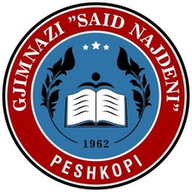
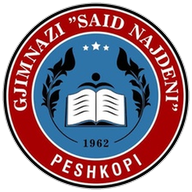
Add files via upload

diff --git a/index.html b/index.html
@@ -19,8 +19,8 @@
 <meta name="mobile-web-app-capable" content="yes">
 <meta name="apple-mobile-web-app-capable" content="yes">
 <meta name="apple-mobile-web-app-title" content="Orari">
-<link rel="icon" type="image/jpeg" href="stema.jpg">
-<link rel="apple-touch-icon" href="icon-192.png">
+<link rel="icon" type="image/png" href="icon-192.png">
+<link rel="apple-touch-icon" href="apple-touch-icon.png">
 <link href="https://fonts.googleapis.com/css2?family=Outfit:wght@400;500;600;700;800&family=JetBrains+Mono:wght@400;500&display=swap" rel="stylesheet">
 <style>
 *,*::before,*::after{box-sizing:border-box;margin:0;padding:0}
@@ -106,7 +106,7 @@ footer{text-align:center;margin-top:40px;color:var(--text-faint);font-size:10px;
 <body>
 <div class="page">
   <div class="hdr">
-    <img class="logo" src="stema.jpg" alt="Stema e Gjimnazit &quot;Said Najdeni&quot;">
+    <img class="logo" src="stema.png" alt="Stema e Gjimnazit &quot;Said Najdeni&quot;">
     <div class="school">Gjimnazi &quot;Said Najdeni&quot; &middot; Peshkopi</div>
     <div class="badge">&#9670; Viti Akademik 2026–2027 &#9670;</div>
     <h1>ORARI MËSIMOR</h1>

diff --git a/sw.js b/sw.js
@@ -1,5 +1,5 @@
-const CACHE = 'orari-v6';
-const CORE = ['./', './index.html', './orari_dita.html', './orari_kp.html', './stema.jpg', './icon-192.png', './icon-512.png', './manifest.webmanifest'];
+const CACHE = 'orari-v7';
+const CORE = ['./', './index.html', './orari_dita.html', './orari_kp.html', './stema.jpg', './icon-192.png', './apple-touch-icon.png', './stema.png', './icon-512.png', './manifest.webmanifest'];
 
 self.addEventListener('install', e => {
   e.waitUntil(
